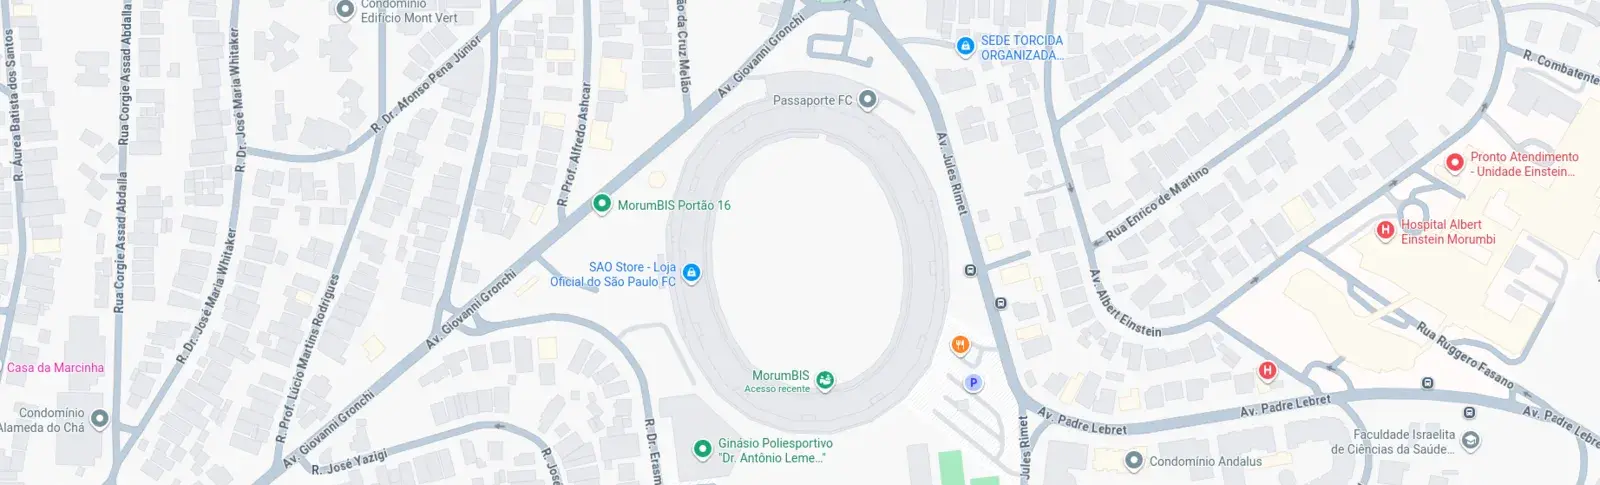
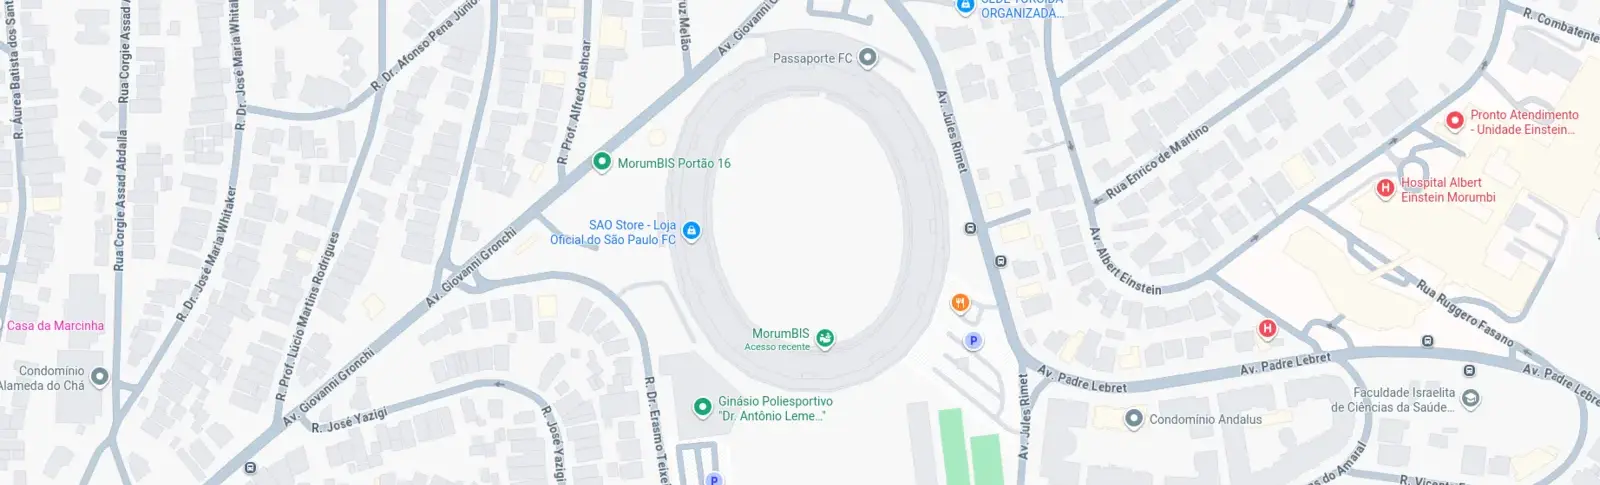
feat: MorumBIS map now sits behind the text block — stadium centered in crop, backdrop widened to 56%

diff --git a/index.html b/index.html
@@ -858,13 +858,13 @@
     .js #estadio .estadio-band.reveal.in{opacity:1;transform:none}
 
     .estadio-scene{
-      position:absolute;left:0;right:0;bottom:0;height:46%;z-index:0;pointer-events:none;
+      position:absolute;left:0;right:0;bottom:0;height:56%;z-index:0;pointer-events:none;
       background:url('img/morumbis-mapa.webp') center/cover no-repeat;
-      -webkit-mask-image:linear-gradient(180deg,transparent,#000 20%);
-      mask-image:linear-gradient(180deg,transparent,#000 20%);
+      -webkit-mask-image:linear-gradient(180deg,transparent,#000 14%);
+      mask-image:linear-gradient(180deg,transparent,#000 14%);
     }
     .estadio-scene-shade{
-      position:absolute;left:0;right:0;bottom:0;height:46%;z-index:1;pointer-events:none;
+      position:absolute;left:0;right:0;bottom:0;height:56%;z-index:1;pointer-events:none;
       background:linear-gradient(180deg,rgba(0,0,0,.55) 0%,rgba(0,0,0,.2) 35%,rgba(0,0,0,.6) 100%);
     }
 
